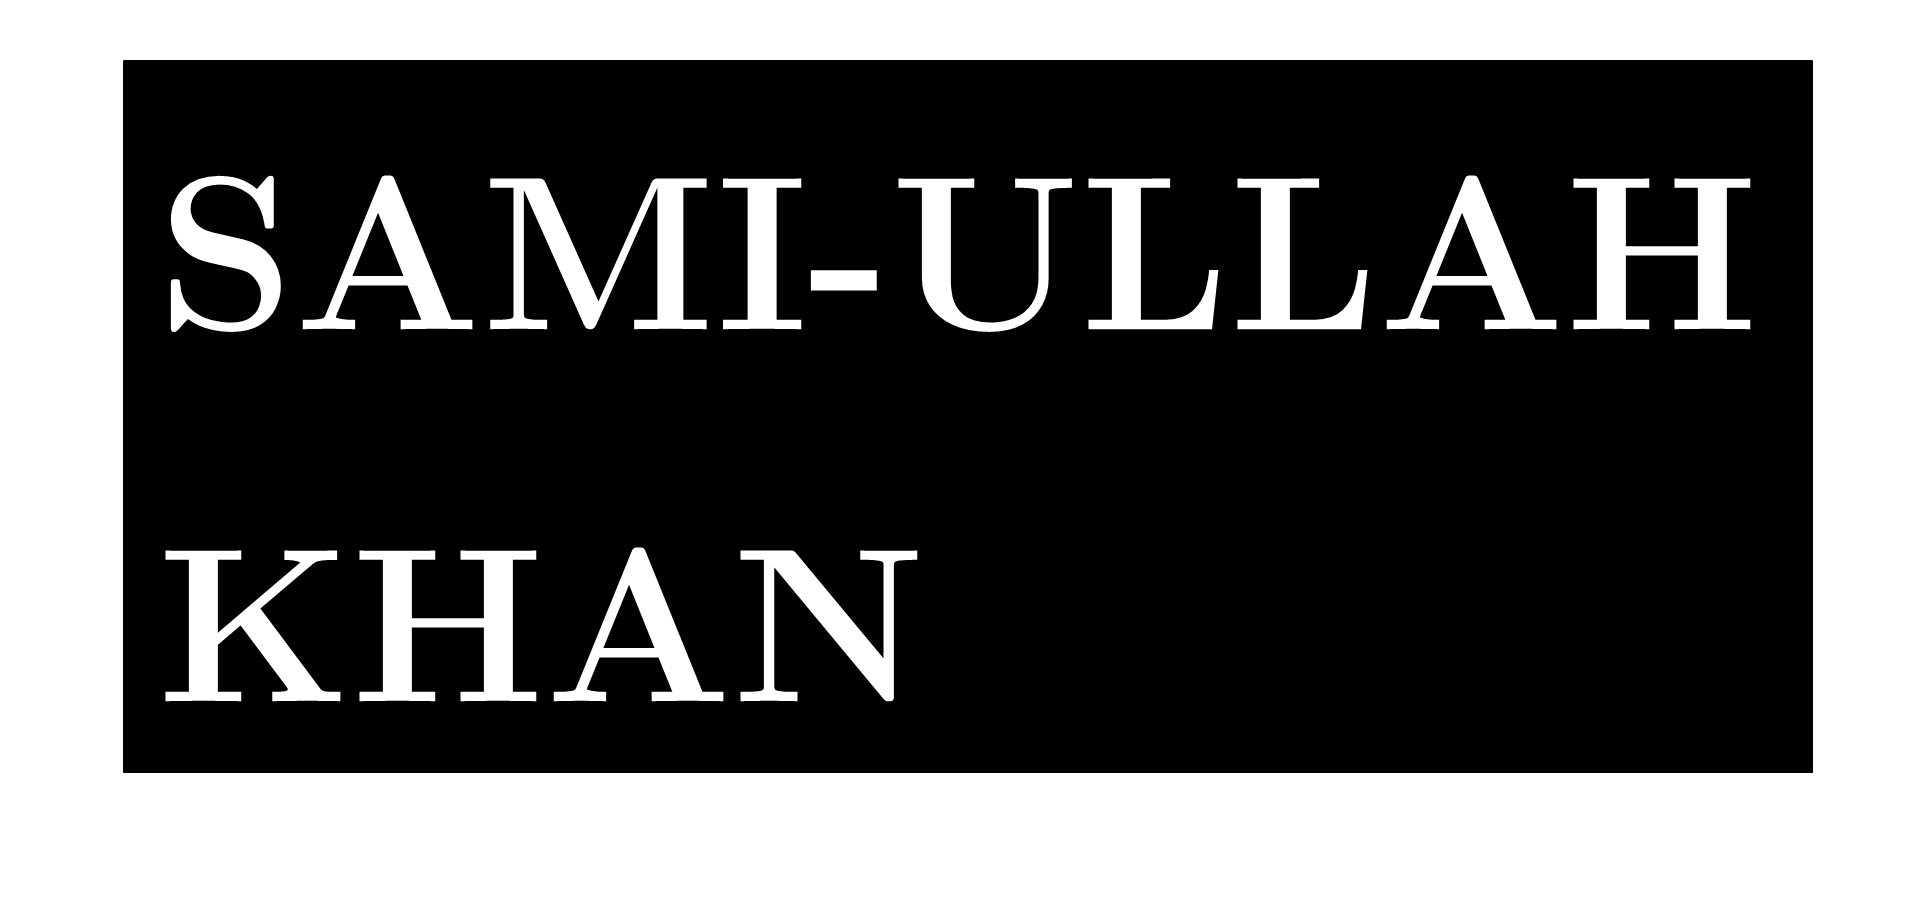
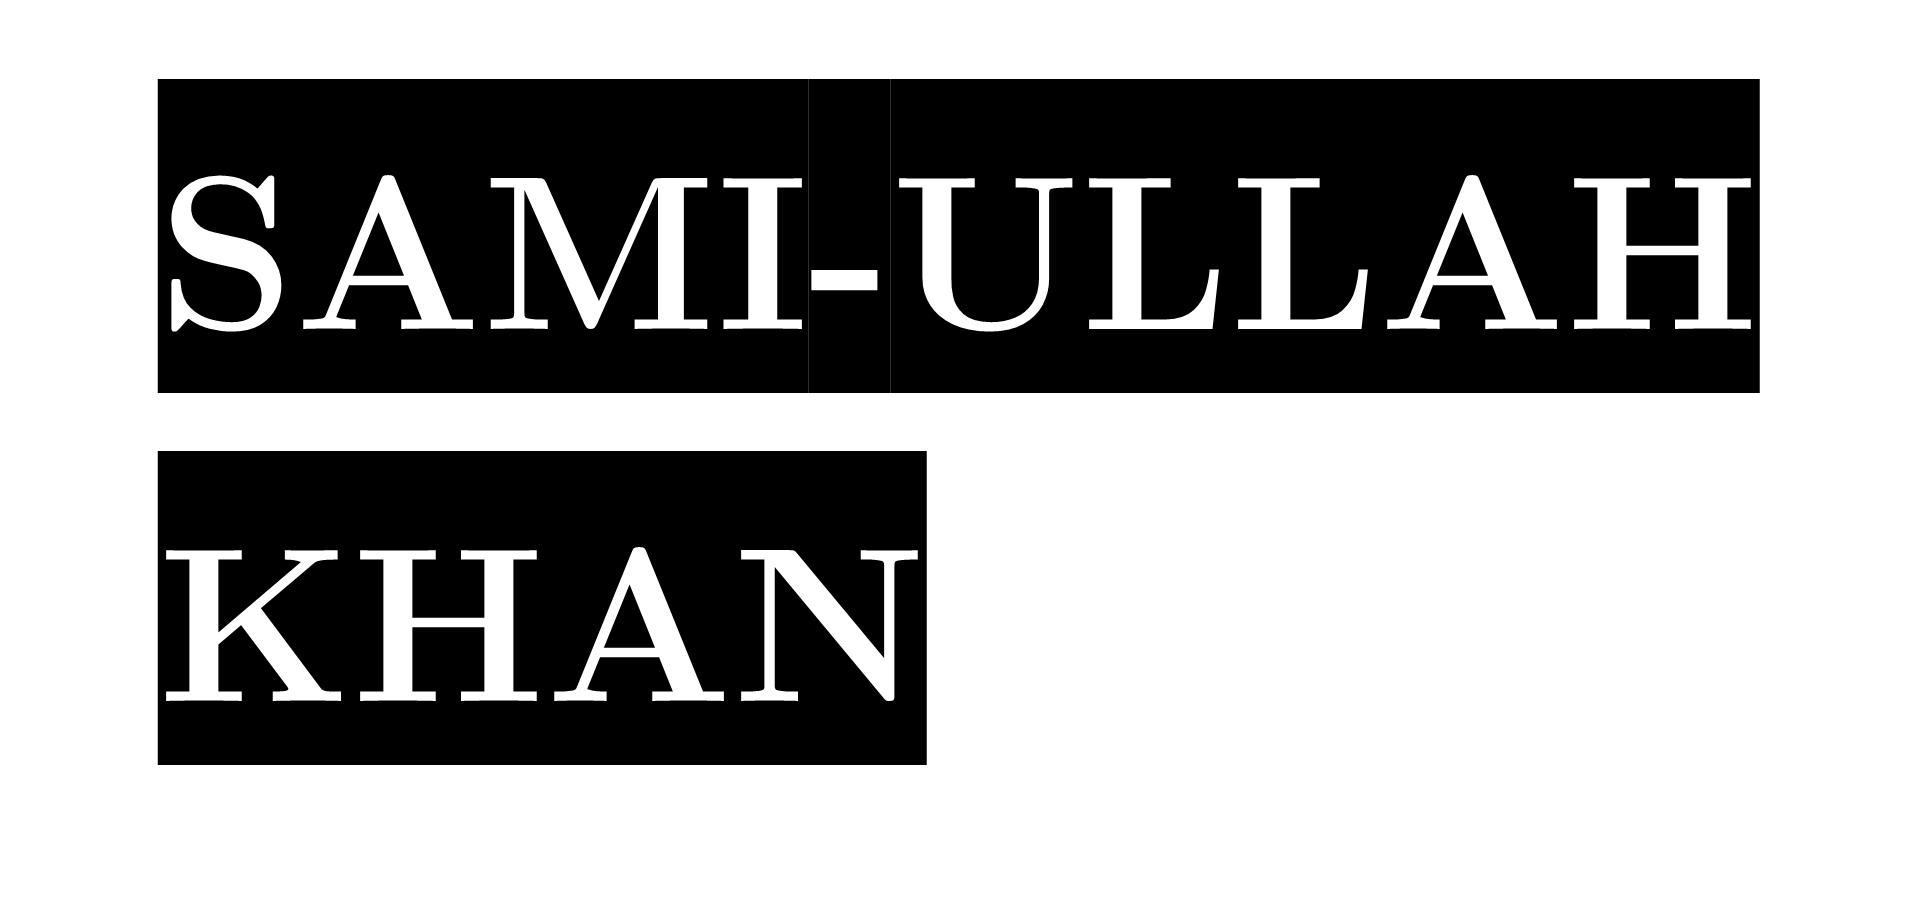
Got all sections in

Changed region(s): [[0.0616, 0.0607, 0.9541, 0.8503], [0.3078, 0.6985, 0.3385, 0.7289], [0.2462, 0.577, 0.277, 0.6074]]

diff --git a/src/App.js b/src/App.js
@@ -2,11 +2,17 @@ import logo from './logo.svg';
 import './App.css';
 import React, { useState, useRef } from 'react';
 import { Parallax } from 'react-parallax';
+import Tilt from 'react-tilt';
 import nameImage from './name.png';
 import menuImage from './menu.png';
 import backg from './Black-Background-Picture.png';
 import bg2 from './bg2.jpg';
 import bg3 from './EducationPage.jpg';
+import bg4 from './bg4.jpg';
+import bg5 from './bg5.jpg';
+import imp from './imp.jpg';
+import ucl from './ucl.jpg';
+import lgs from './lgs.jpg';
 
 const inlineStyle = {
     background: '#000',
@@ -22,14 +28,12 @@ const inlineStyle = {
 function App() {
     const [isShown, setIsShown] = useState(false);
     const Ref1 = useRef(null);
-
-    const executeScroll = () => Ref1.current.scrollIntoView({behavior:'smooth'});
+    const executeScroll = () => Ref1.current.scrollIntoView({ behavior: 'smooth' });
   return (
       <div className="App">
           <Parallax bgImage={backg} strength={500}>
-              <div style={{height: window.innerHeight, width:window.innerWidth}}>
+              <Tilt options={{max:10,scale:1}} style={{height: window.innerHeight, width:window.innerWidth}}>
                   <img src={nameImage} alt="Sami-Ullah Khan" style={{
-                      background: '#000',
                       width: '60%',
                       height: '60%',
                       left: '40%',
@@ -37,7 +41,7 @@ function App() {
                       position: 'absolute',
                       transform: 'translate(-50%, -50%)'
                   }}></img>
-              </div>
+              </Tilt>
               <p style={{
                   color: '#fff',
                   left: '46.7%',
@@ -62,6 +66,7 @@ function App() {
           <Parallax bgImage={bg2} strength={500}>
               <div style={{ height: window.innerHeight, width: window.innerWidth }} ref={Ref1}>
                   <h1 style={{
+                      backgroundColor:'#000',
                       color: '#fff',
                       left: '50%',
                       top: '10%',
@@ -75,6 +80,7 @@ function App() {
           <Parallax bgImage={bg3} strength={500}>
               <div style={{ height: window.innerHeight, width: window.innerWidth }}>
                   <h1 style={{
+                      backgroundColor: '#000',
                       color: '#fff',
                       left: '50%',
                       top: '5%',
@@ -82,41 +88,92 @@ function App() {
                       transform: 'translate(-50%, -50%)',
                       fontSize: '40px'
                   }}>Education</h1>
-                  <div style={{ height: (window.innerHeight / 4), width: window.innerWidth }}>
-                      <h1 style={{
-                          color: '#fff',
-                          left: '50%',
-                          top: '10%',
+                  <div style={{ height: (window.innerHeight / 4), width: window.innerWidth, top: '15%', position: 'absolute', backgroundImage:`url(${imp})`}}>
+                      <h2 style={{
+                          backgroundColor: '#000',
+                          color:'#fff',
+                          left: '10%',
+                          top: '30%',
                           position: 'absolute',
-                          transform: 'translate(-50%, -50%)',
-                          fontSize: '40px'
-                      }}>Education</h1>
+                          transform: 'translate(-50%, -50%)'
+                      }}>Imperial College London</h2>
+                      <h3 style={{
+                          backgroundColor: '#000',
+                          color: '#fff',
+                          left: '10%',
+                          top: '50%',
+                          position: 'absolute',
+                          transform: 'translate(-50%, -50%)'
+                      }}>MSc Computing Science</h3>
                   </div>
-                  <div style={{ height: (window.innerHeight / 4), width: window.innerWidth }}>
-                      <h1 style={{
+                  <div style={{ height: (window.innerHeight / 4), width: window.innerWidth, top: '45%', position: 'absolute', backgroundImage: `url(${ucl})`, backgroundRepeat:'no-repeat' }}>
+                      <h2 style={{
+                          backgroundColor: '#000',
                           color: '#fff',
-                          left: '50%',
-                          top: '40%',
+                          left: '10%',
+                          top: '30%',
                           position: 'absolute',
-                          transform: 'translate(-50%, -50%)',
-                          fontSize: '40px'
-                      }}>Education</h1>
+                          transform: 'translate(-50%, -50%)'
+                      }}>University College London</h2>
+                      <h3 style={{
+                          backgroundColor: '#000',
+                          color: '#fff',
+                          left: '10%',
+                          top: '50%',
+                          position: 'absolute',
+                          transform: 'translate(-50%, -50%)'
+                      }}>BSc Mathematics</h3>
                   </div>
-                  <div style={{ height: (window.innerHeight / 4), width: window.innerWidth }}>
-                      <h1 style={{
+                  <div style={{ height: (window.innerHeight / 4), width: window.innerWidth, top: '75%', position: 'absolute', backgroundImage: `url(${lgs})` }}>
+                      <h2 style={{
+                          backgroundColor: '#000',
                           color: '#fff',
-                          left: '50%',
-                          top: '70%',
+                          left: '10%',
+                          top: '30%',
                           position: 'absolute',
-                          transform: 'translate(-50%, -50%)',
-                          fontSize: '40px'
-                      }}>Education</h1>
+                          transform: 'translate(-50%, -50%)'
+                      }}>Langley Grammar School</h2>
+                      <h3 style={{
+                          backgroundColor: '#000',
+                          color: '#fff',
+                          left: '10%',
+                          top: '50%',
+                          position: 'absolute',
+                          transform: 'translate(-50%, -50%)'
+                      }}>A-Levels</h3>
                   </div>
               </div>
           </Parallax>
 
+          <Parallax bgImage={bg4} strength={500}>
+              <div style={{ height: window.innerHeight, width: window.innerWidth }}>
+                  <h1 style={{
+                      backgroundColor: '#000',
+                      color: '#fff',
+                      left: '50%',
+                      top: '10%',
+                      position: 'absolute',
+                      transform: 'translate(-50%, -50%)',
+                      fontSize: '40px'
+                  }}>Work Experience</h1>
+              </div>
+          </Parallax>
+
+          <Parallax bgImage={bg5} strength={500}>
+              <div style={{ height: window.innerHeight, width: window.innerWidth }}>
+                  <h1 style={{
+                      backgroundColor: '#000',
+                      color: '#fff',
+                      left: '50%',
+                      top: '10%',
+                      position: 'absolute',
+                      transform: 'translate(-50%, -50%)',
+                      fontSize: '40px'
+                  }}>Personal Projects</h1>
+              </div>
+          </Parallax>
+
           <img src={menuImage} alt="Menu" style={{
-              background: '#000',
               width: '5%',
               height: '8%',
               left: '90%',
